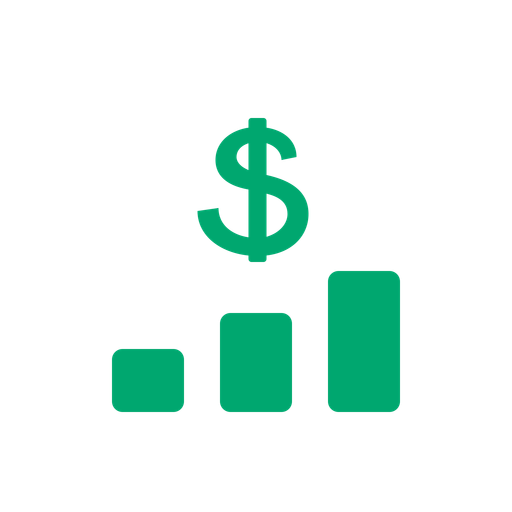
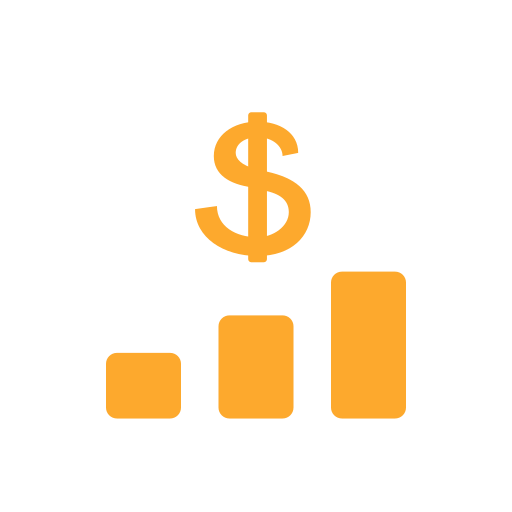
feat(theme): switch primary palette to orange preset and regenerate brand assets
Change primary color from green (#00A76F) to Minimal UI Kit orange preset
(#FDA92D). Regenerate SVG and PNG assets (favicon, icons, logos) with new
color. Decouple plan active status color to success green (#22C55E) from
brand primary.

diff --git a/src/theme/theme-config.ts b/src/theme/theme-config.ts
@@ -44,16 +44,18 @@ export const themeConfig: ThemeConfig = {
     secondary: 'Inter Variable',
   },
   /** **************************************
-   * Palette — TEMPLATE DEFAULT (Minimal UI Kit Pro)
+   * Palette — Minimal UI Kit Pro "orange" preset (primary);
+   * remaining colors keep template defaults.
    *************************************** */
   palette: {
     primary: {
-      lighter: '#C8FAD6',
-      light: '#5BE49B',
-      main: '#00A76F',
-      dark: '#007867',
-      darker: '#004B50',
-      contrastText: '#FFFFFF',
+      lighter: '#FEF4D4',
+      light: '#FED680',
+      main: '#FDA92D',
+      dark: '#B66816',
+      darker: '#793908',
+      // Orange main is light — dark text meets WCAG contrast (same as warning).
+      contrastText: '#1C252E',
     },
     secondary: {
       lighter: '#EFD6FF',

diff --git a/src/sections/plan/constants/plan-meta.ts b/src/sections/plan/constants/plan-meta.ts
@@ -16,7 +16,8 @@ export const PLAN_STATUS_LABELS: Record<PlanStatus, string> = {
 };
 
 export const PLAN_STATUS_COLORS: Record<PlanStatus, string> = {
-  active: '#00A76F',
+  // Semantic success green (theme success.main) — not the brand primary.
+  active: '#22C55E',
   completed: '#1976D2',
   archived: '#637381',
 };
